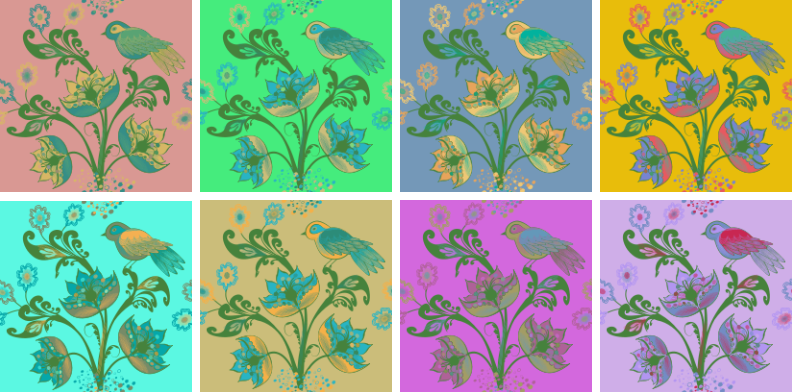
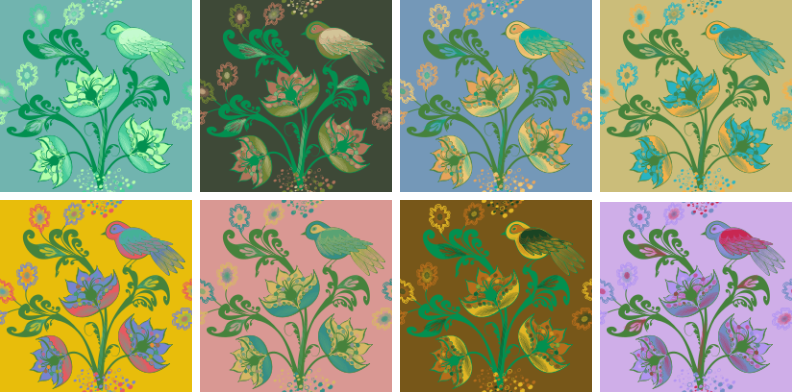
Regenerated constraint figure, added more results sections, and rearranged figures.

diff --git a/latex/siggraph2013/results.tex b/latex/siggraph2013/results.tex
@@ -9,6 +9,8 @@ The data-driven probabilistic model we have presented produces good-looking patt
 
 \subsection{Coloring Pattern Templates}
 
+\paragraph{Automatic pattern coloring} In the most direct application of our framework, we can sample from our model to produce colorings for a pattern template that are similar to the colorings used for training. Figure~\ref{fig:teaser} shows two examples of this process. The sampled patterns exhibit a range of colors and styles employed by the Colourlover artists. For comparison, the same patterns colored with palettes randomly sampled from RGB-space are shown on the right. These patterns exhibit significant problems, such as low color harmony and adjacent regions with equi-limuinant colors.
+
 \begin{figure*}[ht]
 \begin{tabular}{ccc}
 \includegraphics[width=.15\linewidth]{figs/permutationTemplatePalette} & \includegraphics[width=.4\linewidth]{figs/permutationBest8} & \includegraphics[width=.4\linewidth]{figs/permutationWorst8} %& \includegraphics[width=.12\linewidth]{figs/permutationArtist}
@@ -21,9 +23,22 @@ The data-driven probabilistic model we have presented produces good-looking patt
 \label{fig:permutation}
 \end{figure*}
 
-\paragraph{Automatic pattern generation} In the most direct application of our framework, we can sample from our model to produce colorings for a pattern template that are similar to the patterns used for training. Figure~\ref{fig:teaser} shows two examples of this. The sampled patterns exhibit a range of colors and styles employed by some of the Colourlover artists. For comparison, the same patterns colored with palettes randomly sampled from RGB-space are shown on the right. These patterns exhibit significant problems, such as low color harmony and adjacent regions with equi-limuinant colors.
+\paragraph{Spatial arrangement} In some cases, an artist already knows what colors they want to use in an image. They might have found a palette they are enamored with elsewhere, or they might have a very specific theme in mind. Even with a fixed palette, there are still a range of images that can be created by mapping different colors to different regions, only some of which are desirable. To support this task, we use our model's score to rank all possible permutations of the colors. Figure~\ref{fig:permutation} shows one example of this process. \ref{fig:permutation}b shows the eight highest-rated color assignments which exhibit a variety of color styles, such as using four different background colors. On the other hand, the lowest-rated assignments all use the tangerine background color. Our color model assigns a very low score to using this color for the background region because its color properties are not similar to background colors in the training set. The actual color assignment originally provided by the artist for this color template received the second-highest score, suggesting that our model was able to capture the artist's intent.
 
-\paragraph{Spatial arrangement} In some cases, an artist already knows what colors they want to use in an image. They might have found a palette they are enamored with elsewhere, or they might have a very specific theme in mind. Even with a fixed palette, there are still a range of images that can be created by mapping different colors to different regions, only some of which are desirable to the artist. To support this task, we use our model's score to rank all possible permutations of the colors. Figure~\ref{fig:permutation} shows one example of this process. \ref{fig:permutation}b shows the eight highest-rated color assignments which exhibits a variety of color styles, such as using four different background colors. On the other hand, the lowest-rated assignments all use the tangerine background color. Our color model assignment a very low score to assigning this color to the background region because its color properties were not similar to background colors in the model's training set. The actual color assignment originally provided by the artist for this color template received the second-highest score, suggesting that our model was able to capture the artist's intent.
+\begin{figure*}[ht]
+\begin{tabular}{cc} 
+\includegraphics[width=.475\linewidth]{figs/constrainedSearchUnconstrained}&\includegraphics[width=.475\linewidth]{figs/constrainedSearchConstrained}\\
+Unconstrained sampling&Constrained sampling\\
+\end{tabular}
+
+\caption{An artist coloring a pattern is presented with the results shown on the left, and decides that she only likes results where the stem of the plant is dark green. On the right, we use conditional inference to sample from our model subject to the constraint that the desired palette entry is fixed to a specific color. This is a natural way to incorporate semantic information about region colors which cannot be easily learned by our model.}
+\label{fig:constrainedInference}
+\vspace{-1.0em}
+\end{figure*}
+
+\remark{I realize that we may not keep in the hard or soft constraint figures and results, in favor of more ``interesting'' constraints; I'm still trying to find better examples of the hard and soft constraints though.}
+
+\paragraph{Adding hard constraints} Often a user has some idea of what types of palettes they are interested in. When this idea takes the form of a hard constraint on a region color, it is straightforward to accommodate this by using constrained inference to sample from the factor graph. Figure~\ref{fig:constrainedInference} shows an example. The model samples from the highest-scoring patterns subject to the constraint that the plant stem must be a specific shade of green.
 
 \begin{figure}[ht]
 \begin{tabular}{cc}
@@ -38,6 +53,14 @@ Suggestion&Results\\
 \vspace{-1.0em}
 \end{figure}
 
+\paragraph{Adding soft constraints} When the user has only a general idea of what kind of palette they want, soft constraints can be incorporated by adding new factors. A simple constraint is that the color assigned to a region should be close to a target color, which we represent using a factor of the form:
+
+\remark{Check up on factor notation. Adds two parameters: one sigma (how far out should you search?) and one weight (what is the tradeoff between pattern-goodness and adhering to the provided colors?). May be hard to concisely summarize all this though.}
+
+Figure~\ref{fig:nearbySuggestions} shows examples where a proposed coloring is given, and the artist asks for colorings that are similar; this results in a new factor being added to each input color region. \remark{Discussion on hold since the results will likely change}
+
+\paragraph{Style capture} Stuff.
+
 \begin{figure}[ht]
 \begin{tabular}{ccc} 
 Style&Example&Results\\ %\hline
@@ -51,17 +74,6 @@ Style&Example&Results\\ %\hline
 \label{fig:styleTraining}
 \vspace{-1.0em}
 \end{figure}
-
-\begin{figure*}[ht]
-\begin{tabular}{cc} 
-\includegraphics[width=.475\linewidth]{figs/constrainedSearchUnconstrained}&\includegraphics[width=.475\linewidth]{figs/constrainedSearchConstrained}\\
-Unconstrained sampling&Constrained sampling\\
-\end{tabular}
-
-\caption{An artist coloring a pattern is presented with the results shown on the left, and decides that she only likes results where the stem of the plant is dark green. On the right, we use conditional inference to sample from our model subject to the constraint that the desired palette entry is fixed to a specific color. This is a natural way to incorporate semantic information about region colors which cannot be easily learned by our model.}
-\label{fig:constrainedInference}
-\vspace{-1.0em}
-\end{figure*}
 
 \begin{figure*}[ht]
 \begin{tabular}{cc} 
